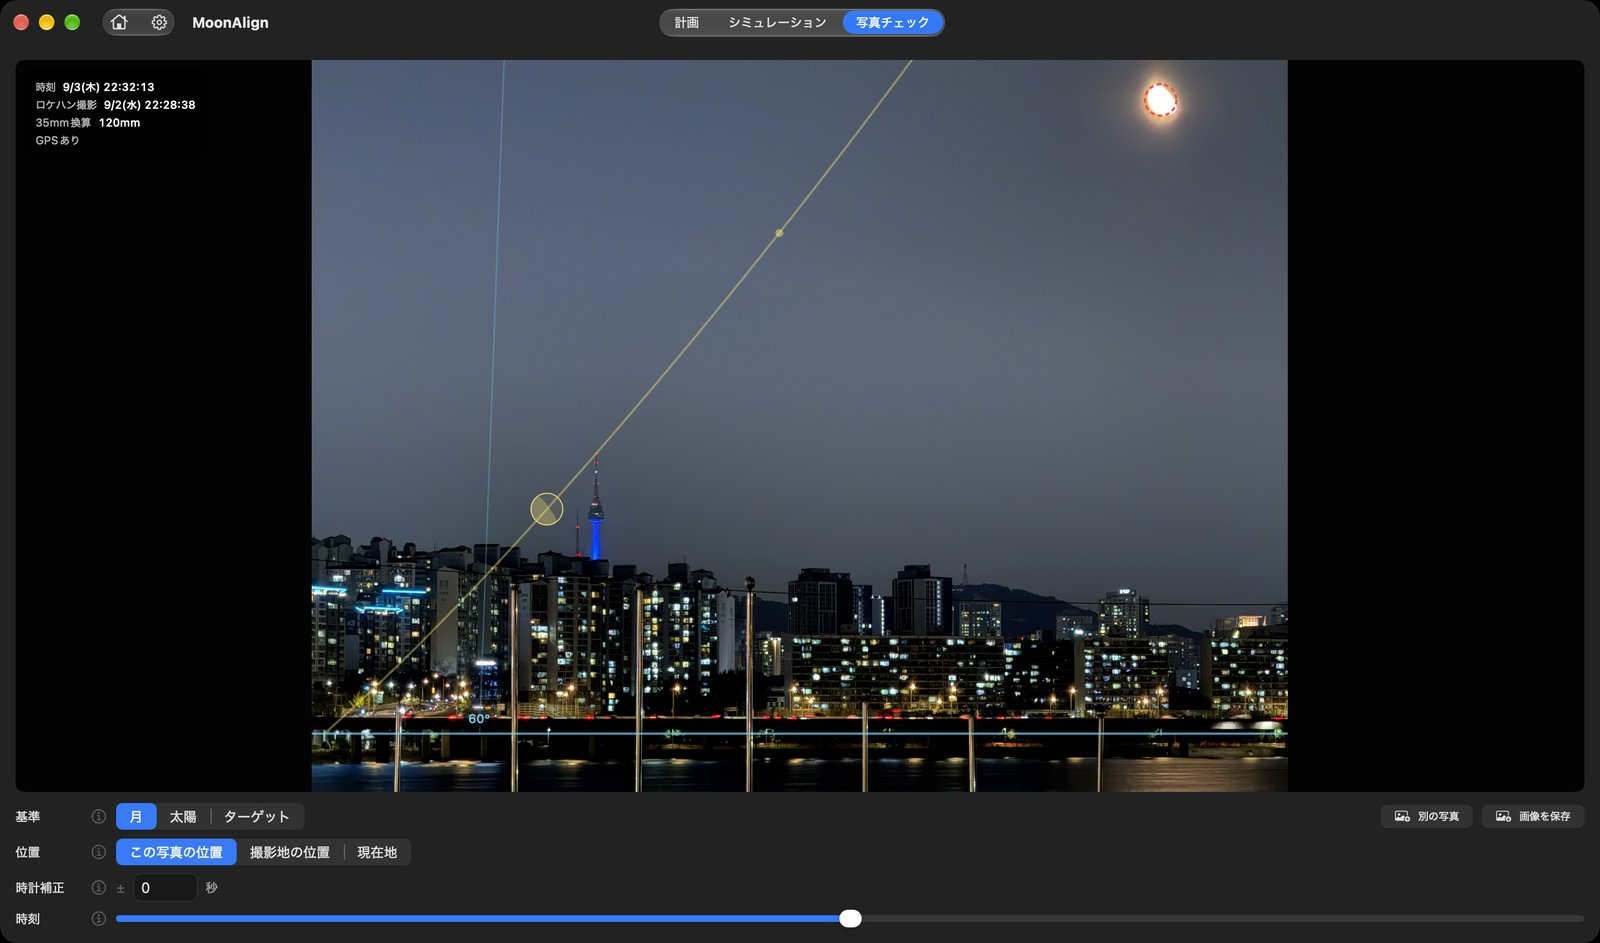
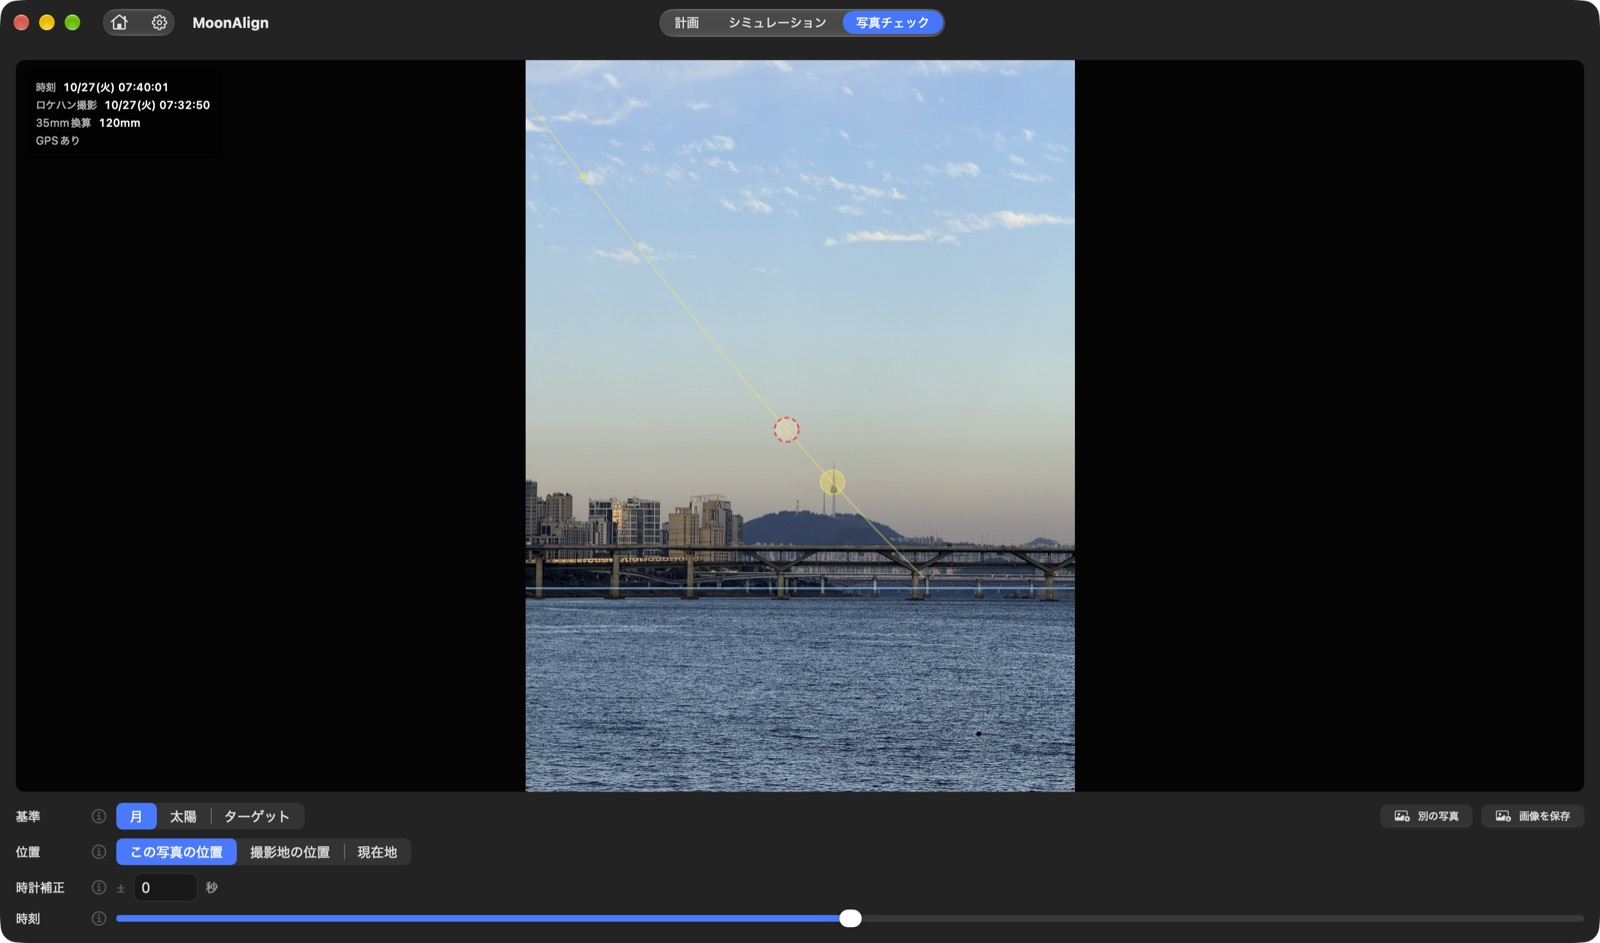
랜딩 생성물 갱신 — MoonAlign f4109bd

diff --git a/ja/guide/index.html b/ja/guide/index.html
@@ -92,6 +92,7 @@
   article figure.shot { margin: 18px 0 22px; }
   article figure.shot img { display: block; width: 100%; height: auto; border: 1px solid var(--line); border-radius: 12px; }
   article figure.shot.phone img { max-width: 300px; border-radius: 28px; }
+  article figure.shot.portrait img { max-width: 420px; }
   article figure.shot.pair { display: flex; gap: 16px; align-items: flex-start; flex-wrap: wrap; }
   article figure.shot.pair img { width: auto; max-width: 100%; }
   article figure.shot figcaption { width: 100%; font-size: 0.85rem; color: var(--ink-faint); margin-top: 8px; }
@@ -330,7 +331,8 @@
 
 <section>
 <h2 id="photo">写真チェック — 下見写真に経路を描く</h2>
-<figure class="shot"><img src="/img/guide/photo-mac-ja.jpg" alt="Macの写真チェック" loading="lazy"><figcaption>Macの写真チェック — 2026-09-02の夜、鷺梁津の漢江沿いで撮った下見写真(35mm換算120mm)。写真の中の月(赤い点線の輪)を基準に合わせると、計画時刻(9/3 22:32)の月の位置(黄色の円)と経路がNソウルタワーの横に描かれます。</figcaption></figure>
+<figure class="shot"><img src="/img/guide/photo-mac-ja.jpg" alt="Macの写真チェック" loading="lazy"><figcaption>Macの写真チェック — 2026-10-27の朝、蚕室漢江公園で撮った下見写真(07:32、35mm換算120mm)。写真の中の月(赤い点線の輪)を基準に合わせると、計画時刻(10/27 07:40)の月の位置(黄色の円)と経路が描かれ、8分後に月がNソウルタワーの先端にかかることが分かります。</figcaption></figure>
+<figure class="shot portrait"><img src="/img/guide/photo-result.jpg" alt="実際の撮影結果 — Nソウルタワーの後ろの満月" loading="lazy"><figcaption>実際の結果 — 同じ朝、同じ場所から07:40:13に撮影(Sony α6700 + 800mm、35mm換算1200mm)。写真チェックが示したとおり、月がNソウルタワーの真後ろにかかりました。</figcaption></figure>
 <p>下見のときに撮影地で写真を1枚撮っておくと、予定日の天体の経路をその写真の上に描きます。地図にない木やクレーン、フェンスを確かめるのに使います。</p>
 <ol>
 <li><span class="ui">写真チェック</span>タブで<span class="ui">写真を選択</span>から写真を読み込みます。撮影時刻・焦点距離・GPS(EXIF)のある元の写真が向いています。</li>

diff --git a/ko/guide/index.html b/ko/guide/index.html
@@ -92,6 +92,7 @@
   article figure.shot { margin: 18px 0 22px; }
   article figure.shot img { display: block; width: 100%; height: auto; border: 1px solid var(--line); border-radius: 12px; }
   article figure.shot.phone img { max-width: 300px; border-radius: 28px; }
+  article figure.shot.portrait img { max-width: 420px; }
   article figure.shot.pair { display: flex; gap: 16px; align-items: flex-start; flex-wrap: wrap; }
   article figure.shot.pair img { width: auto; max-width: 100%; }
   article figure.shot figcaption { width: 100%; font-size: 0.85rem; color: var(--ink-faint); margin-top: 8px; }
@@ -332,7 +333,8 @@
 
 <section>
 <h2 id="photo">사진 확인 — 답사 사진 위에 경로 그리기</h2>
-<figure class="shot"><img src="/img/guide/photo-mac-ko.jpg" alt="Mac 사진 확인" loading="lazy"><figcaption>Mac 사진 확인 — 2026-09-02 밤 노량진 한강변에서 찍은 답사 사진(120mm 환산). 사진 속 달(빨간 점선 고리)을 기준으로 맞추면 계획 시각(9/3 22:32)의 달 위치(노란 원)와 경로가 남산타워 옆에 그려집니다.</figcaption></figure>
+<figure class="shot"><img src="/img/guide/photo-mac-ko.jpg" alt="Mac 사진 확인" loading="lazy"><figcaption>Mac 사진 확인 — 2026-10-27 아침 잠실 한강공원에서 찍은 답사 사진(07:32, 120mm 환산). 사진 속 달(빨간 점선 고리)을 기준으로 맞추면 계획 시각(10/27 07:40)의 달 위치(노란 원)와 경로가 그려져, 8분 뒤 달이 남산타워 꼭대기에 걸리는 것을 확인할 수 있습니다.</figcaption></figure>
+<figure class="shot portrait"><img src="/img/guide/photo-result.jpg" alt="실제 촬영 결과 — 남산타워 뒤의 보름달" loading="lazy"><figcaption>실제 결과 — 같은 날 같은 자리에서 07:40:13에 촬영(Sony α6700 + 800mm, 환산 1200mm). 사진 확인이 그린 대로 달이 남산타워 바로 뒤에 걸렸습니다.</figcaption></figure>
 <p>사전 답사에서 촬영한 사진 위에 계획한 시각의 천체 위치와 경로를 표시합니다. 지도에 없는 나무·크레인·울타리를 확인하는 데 사용합니다.</p>
 <ol>
 <li><span class="ui">사진 확인</span> 탭에서 <span class="ui">사진 선택</span>으로 사진을 불러옵니다. 촬영 시각·초점거리·위치 정보가 EXIF에 포함된 원본 사진을 사용하면 설정에 도움이 됩니다.</li>

diff --git a/guide/index.html b/guide/index.html
@@ -92,6 +92,7 @@
   article figure.shot { margin: 18px 0 22px; }
   article figure.shot img { display: block; width: 100%; height: auto; border: 1px solid var(--line); border-radius: 12px; }
   article figure.shot.phone img { max-width: 300px; border-radius: 28px; }
+  article figure.shot.portrait img { max-width: 420px; }
   article figure.shot.pair { display: flex; gap: 16px; align-items: flex-start; flex-wrap: wrap; }
   article figure.shot.pair img { width: auto; max-width: 100%; }
   article figure.shot figcaption { width: 100%; font-size: 0.85rem; color: var(--ink-faint); margin-top: 8px; }
@@ -330,7 +331,8 @@
 
 <section>
 <h2 id="photo">Photo Check — the path on your scouting photo</h2>
-<figure class="shot"><img src="/img/guide/photo-mac-en.jpg" alt="Photo Check on the Mac" loading="lazy"><figcaption>Photo Check on the Mac — a scouting photo taken on the Han River bank at Noryangjin on the night of 2026-09-02 (120mm equivalent). With the Moon in the photo (red dashed ring) as the reference, the Moon at the planned time (9/3 22:32, yellow circle) and its path are drawn next to N Seoul Tower.</figcaption></figure>
+<figure class="shot"><img src="/img/guide/photo-mac-en.jpg" alt="Photo Check on the Mac" loading="lazy"><figcaption>Photo Check on the Mac — a scouting photo taken at Jamsil Hangang Park on the morning of 2026-10-27 (07:32, 120mm equivalent). With the Moon in the photo (red dashed ring) as the reference, the Moon at the planned time (10/27 07:40, yellow circle) and its path are drawn — eight minutes later it sits right on top of N Seoul Tower.</figcaption></figure>
+<figure class="shot portrait"><img src="/img/guide/photo-result.jpg" alt="The actual shot — the full Moon behind N Seoul Tower" loading="lazy"><figcaption>The real result — taken from the same spot the same morning at 07:40:13 (Sony α6700 + 800mm, 1200mm equivalent). Just as Photo Check showed, the Moon sat right behind N Seoul Tower.</figcaption></figure>
 <p>Take one photo from the shooting spot while scouting, and MoonAlign draws the planned day's path of the Moon (or Sun) on top of it. Use it to catch trees, cranes, and fences that aren't on any map.</p>
 <ol>
 <li>In the <span class="ui">Photo Check</span> tab, load a photo with <span class="ui">Choose photo</span>. An original photo with capture time, focal length, and GPS (EXIF) works best.</li>

diff --git a/ja/privacy/index.html b/ja/privacy/index.html
@@ -92,6 +92,7 @@
   article figure.shot { margin: 18px 0 22px; }
   article figure.shot img { display: block; width: 100%; height: auto; border: 1px solid var(--line); border-radius: 12px; }
   article figure.shot.phone img { max-width: 300px; border-radius: 28px; }
+  article figure.shot.portrait img { max-width: 420px; }
   article figure.shot.pair { display: flex; gap: 16px; align-items: flex-start; flex-wrap: wrap; }
   article figure.shot.pair img { width: auto; max-width: 100%; }
   article figure.shot figcaption { width: 100%; font-size: 0.85rem; color: var(--ink-faint); margin-top: 8px; }

diff --git a/ko/privacy/index.html b/ko/privacy/index.html
@@ -92,6 +92,7 @@
   article figure.shot { margin: 18px 0 22px; }
   article figure.shot img { display: block; width: 100%; height: auto; border: 1px solid var(--line); border-radius: 12px; }
   article figure.shot.phone img { max-width: 300px; border-radius: 28px; }
+  article figure.shot.portrait img { max-width: 420px; }
   article figure.shot.pair { display: flex; gap: 16px; align-items: flex-start; flex-wrap: wrap; }
   article figure.shot.pair img { width: auto; max-width: 100%; }
   article figure.shot figcaption { width: 100%; font-size: 0.85rem; color: var(--ink-faint); margin-top: 8px; }

diff --git a/privacy/index.html b/privacy/index.html
@@ -92,6 +92,7 @@
   article figure.shot { margin: 18px 0 22px; }
   article figure.shot img { display: block; width: 100%; height: auto; border: 1px solid var(--line); border-radius: 12px; }
   article figure.shot.phone img { max-width: 300px; border-radius: 28px; }
+  article figure.shot.portrait img { max-width: 420px; }
   article figure.shot.pair { display: flex; gap: 16px; align-items: flex-start; flex-wrap: wrap; }
   article figure.shot.pair img { width: auto; max-width: 100%; }
   article figure.shot figcaption { width: 100%; font-size: 0.85rem; color: var(--ink-faint); margin-top: 8px; }
